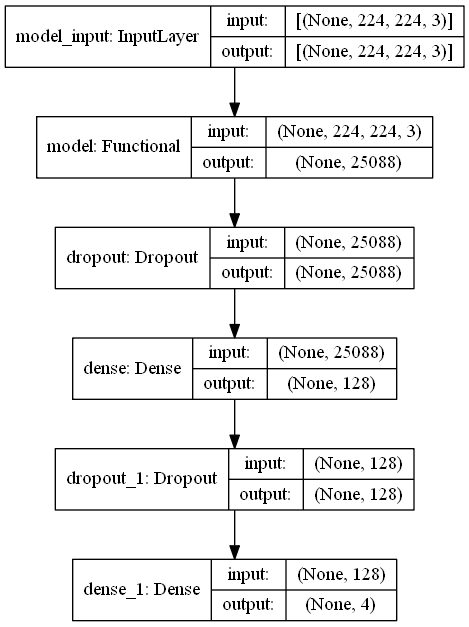
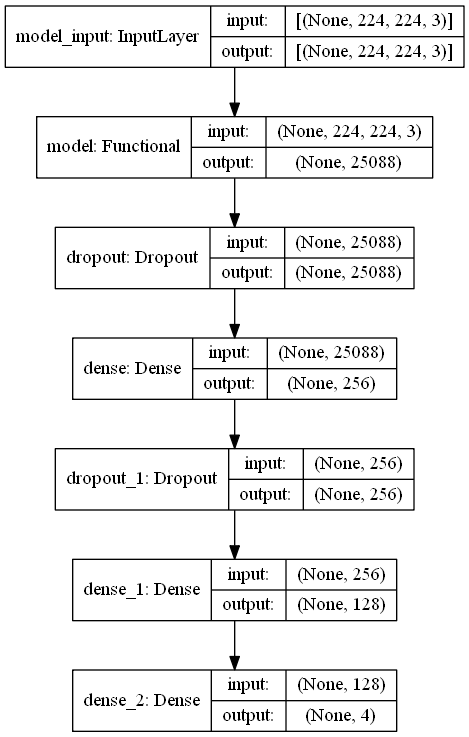
try 2 dense layers as top model

Changed region(s): [[0.0, 0.0, 1.0, 1.0], [0.0896, 0.3939, 0.1194, 0.4545], [0.0597, 0.2424, 0.0896, 0.2727]]

diff --git a/models/pretrained_model.py b/models/pretrained_model.py
@@ -17,7 +17,7 @@ class Pretrained_Model:
     def __init__(self) -> None:
         self.utils = Utils()
 
-    def getModel(self, backbone, lr=1e-4, dense=128, drpout1=0.5, drpout2=0.25):
+    def getModel(self, backbone, lr=1e-4, dense1=128,dense2=32, drpout1=0.5, drpout2=0.25):
         """
         easily adjust the learning rate, the dense layer and the dropout layer.
 
@@ -31,22 +31,12 @@ class Pretrained_Model:
         model = Sequential()
         model.add(backbone)
         model.add(Dropout(drpout1))
-        Conv2D(16, (3, 3), 1, activation='relu',
-               input_shape=(224, 224, 3)),  # => Output Feature Maps 222x222x3
-        MaxPooling2D(),
-        # Dropout(0.2),
-        Conv2D(32, (3, 3), 1, activation='relu'),
-        MaxPooling2D(),
-        Conv2D(16, 3, padding='same',
-               activation='relu'),  # "same" results in padding with zeros evenly to the left/right or up/down of the input. When padding="same" and strides=1, the output has the same size as the input.
-        MaxPooling2D(),
-        Dropout(0.2),
-        Flatten(),
-        # Vollständig verbundene Schicht mit einer ReLU-Aktivierungsfunktion
-        # hinzufügen
-        Dense(256, activation='relu'),
-        # Vollständig verbundene Schicht mit einer Sigmoid-Aktivierungsfunktion hinzufügen
-        Dense(4, activation='softmax')  # 4 categories as output channel
+        model.add(Dense(dense1, activation='relu'))
+        #     model.add(LeakyReLU(alpha=0.1))
+        #     model.add(BatchNormalization())
+        model.add(Dropout(drpout2))
+        model.add(Dense(dense2, activation='relu'))
+        model.add(Dense(4, activation='softmax'))
 
         model.compile(
             loss=keras.losses.categorical_crossentropy,

diff --git a/trainer.py b/trainer.py
@@ -28,8 +28,7 @@ class Trainer:
 
         imgs, labels = next(train_dataset)
         self.visualizer.plot_batch(imgs, titles=labels,
-                                   filename="Batch: " + str(self.img_height) + "x" + str(
-                                       self.img_height) + ".png")
+                                   filename="Batch.png")
 
         # base_model = self.model_pretrained.createBaseModel(vgg=True)
         # base_model.summary()
@@ -39,7 +38,7 @@ class Trainer:
         backbone.summary()
         plot_model(backbone, to_file='DLO_Graphs/vgg-backbone.png', show_shapes=True, show_layer_names=True)
 
-        model = self.model_pretrained.getModel(backbone, lr=1e-4, drpout1=0.6, drpout2=0.2)
+        model = self.model_pretrained.getModel(backbone, dense1=256, dense2=128, lr=1e-4, drpout1=0.6, drpout2=0.2)
         model.summary()
         plot_model(model, to_file='DLO_Graphs/model_vgg_dropout.png', show_shapes=True, show_layer_names=True)
 

diff --git a/main.py b/main.py
@@ -14,7 +14,7 @@ def main():
 
     parser = argparse.ArgumentParser()
     parser.add_argument('--batch_size', type=int, default=32)
-    parser.add_argument('--epochs', type=int, default=25)
+    parser.add_argument('--epochs', type=int, default=1)
     parser.add_argument('--img_height', type=int, default=224)
     parser.add_argument('--img_width', type=int, default=224)
     config = parser.parse_args()
